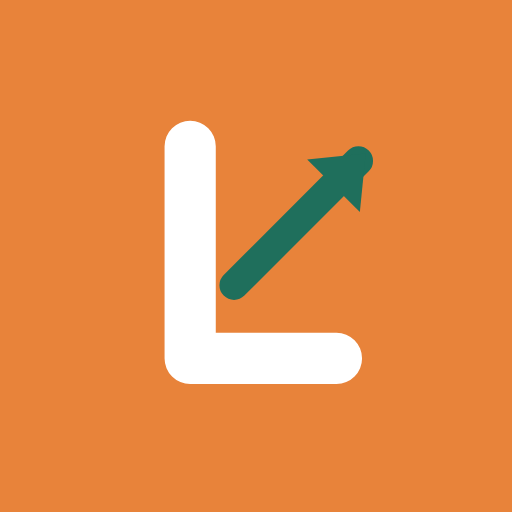
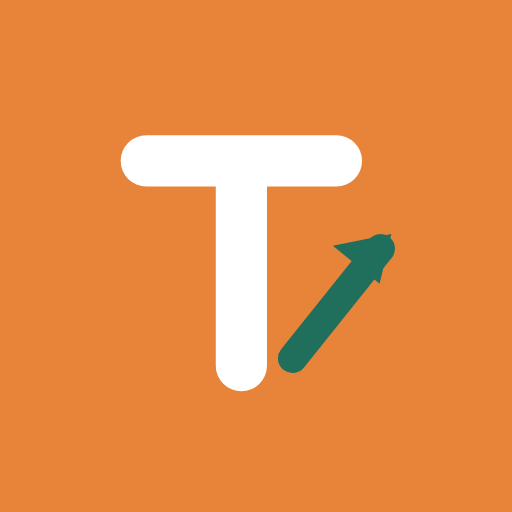
Rename the app to Target Navodaya
New name throughout (page title, header, installed app name, README),
and the logo's "L" becomes a "T" in the same orange tile with the
same arrow. "by Manu" stays as the bold pill.

Claude-Session: https://claude.ai/code/session_015FCUc148RSjcgHGDmhbNUo

Changed region(s): [[0.2188, 0.2188, 0.7812, 0.75], [0.4375, 0.75, 0.5, 0.7812]]

diff --git a/index.html b/index.html
@@ -4,7 +4,7 @@
 <meta charset="utf-8">
 <meta name="viewport" content="width=device-width, initial-scale=1">
 <meta name="theme-color" content="#1f6f5c">
-<title>Lakshya Navodaya</title>
+<title>Target Navodaya</title>
 <link rel="manifest" href="/manifest.webmanifest">
 <link rel="icon" href="/icon-192.png">
 <link rel="apple-touch-icon" href="/icon-192.png">
@@ -124,8 +124,8 @@
   <!-- HOME -->
   <section id="home">
     <div class="brand">
-      <svg class="logo" width="58" height="58" viewBox="0 0 56 56" aria-hidden="true"><rect width="56" height="56" rx="14" fill="#e8833a"/><path d="M19 13v29h20" stroke="#fff" stroke-width="7" stroke-linecap="round" stroke-linejoin="round" fill="none"/><path d="M25 32L42 15" stroke="#1f6f5c" stroke-width="4" stroke-linecap="round"/><path d="M43 14l-8 .8 7.2 7.2z" fill="#1f6f5c"/></svg>
-      <div><h1>Lakshya Navodaya</h1><div class="byline"><span class="by">by Manu</span> · JNVST Class 6 practice</div></div>
+      <svg class="logo" width="58" height="58" viewBox="0 0 56 56" aria-hidden="true"><rect width="56" height="56" rx="14" fill="#e8833a"/><path d="M13 15h26M26 15v28" stroke="#fff" stroke-width="7" stroke-linecap="round" stroke-linejoin="round" fill="none"/><path d="M33 42L45 27" stroke="#1f6f5c" stroke-width="4" stroke-linecap="round"/><path d="M46.5 25l-8 1.6 6.4 5.2z" fill="#1f6f5c"/></svg>
+      <div><h1>Target Navodaya</h1><div class="byline"><span class="by">by Manu</span> · JNVST Class 6 practice</div></div>
     </div>
     <p class="sub">A full JNVST paper under exam conditions, with fresh questions each time.</p>
 

diff --git a/sw.js b/sw.js
@@ -1,4 +1,4 @@
-const CACHE = "navodaya-v5";
+const CACHE = "navodaya-v6";
 const SHELL = ["/", "/index.html", "/manifest.webmanifest", "/mat.js", "/icon-192.png", "/icon-512.png"];
 self.addEventListener("install", e => { e.waitUntil(caches.open(CACHE).then(c => c.addAll(SHELL))); self.skipWaiting(); });
 self.addEventListener("activate", e => {

diff --git a/mat.js b/mat.js
@@ -1,4 +1,4 @@
-/* Lakshya Navodaya: Mental Ability question maker.
+/* Target Navodaya: Mental Ability question maker.
    Draws JNVST-style figure questions and knows each answer because it builds them:
    the right option is a known flip or turn of the figure, and wrong options are other flips and turns. */
 (function (global) {

diff --git a/README.md b/README.md
@@ -1,4 +1,4 @@
-# Lakshya Navodaya (by Manu)
+# Target Navodaya (by Manu)
 
 Timed practice tests for the JNVST Class 6 entrance exam (Jawahar Navodaya Vidyalaya).
 
